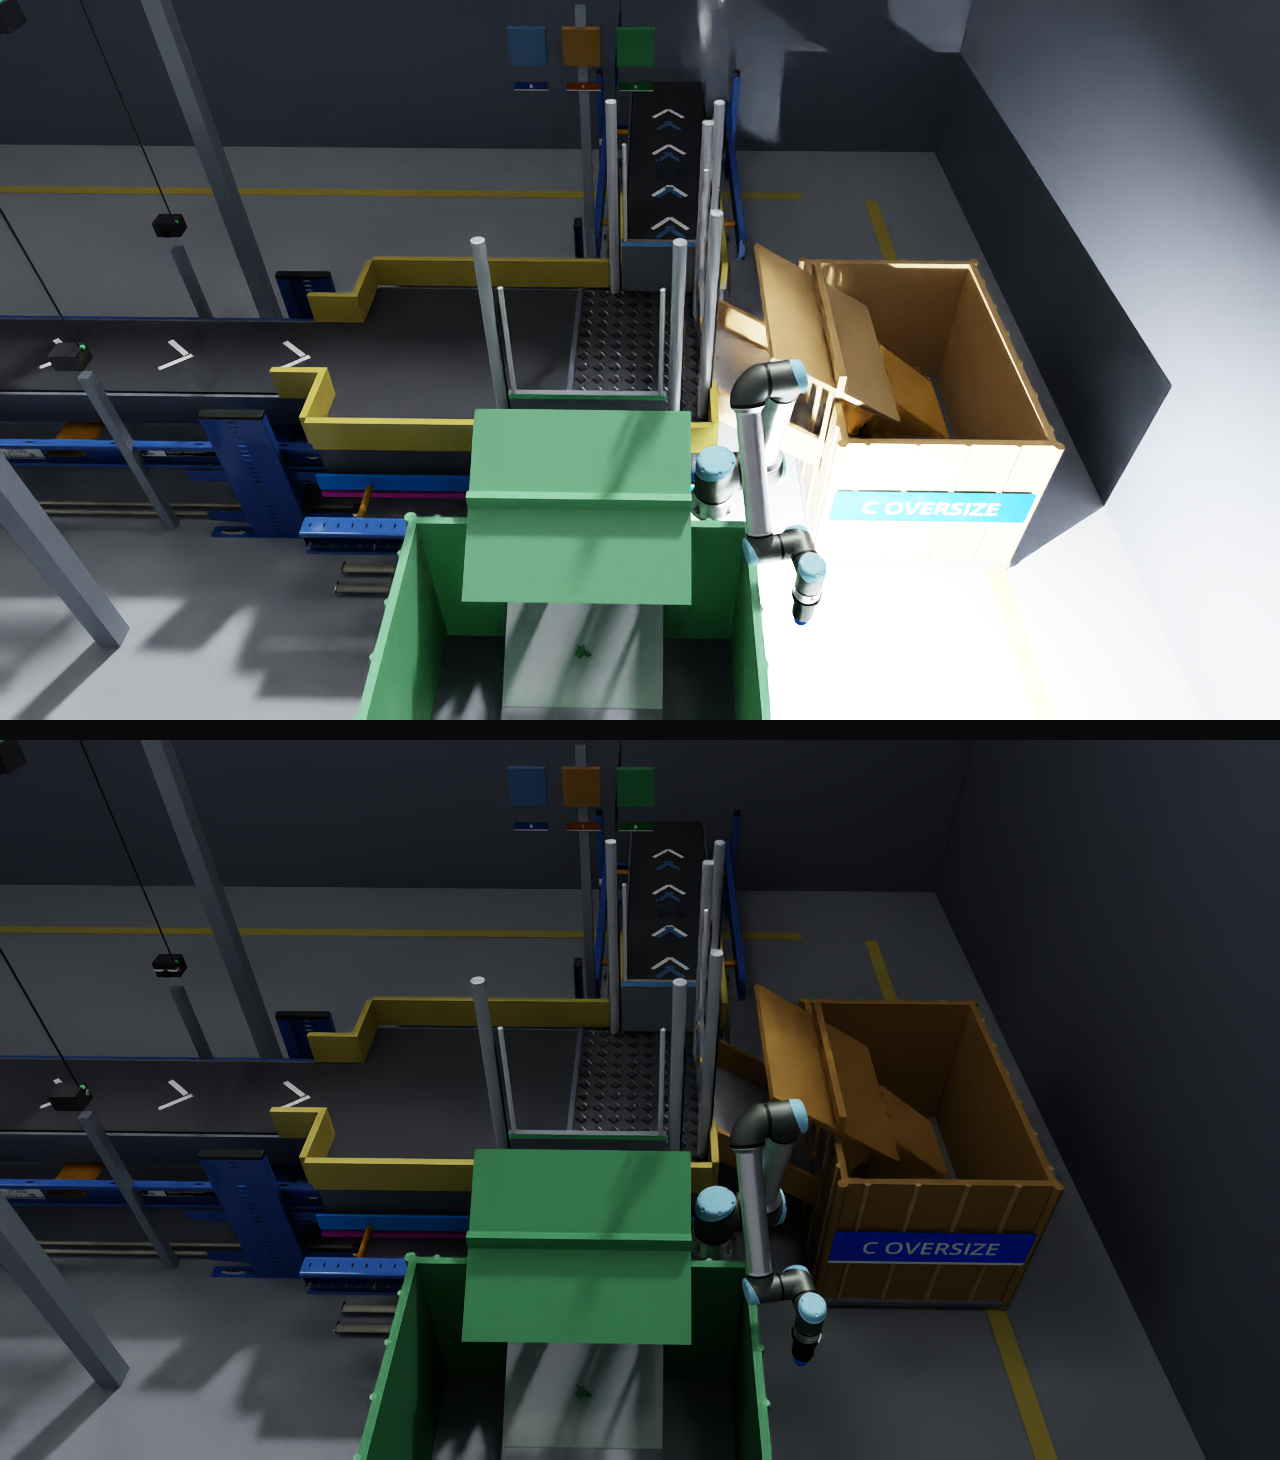
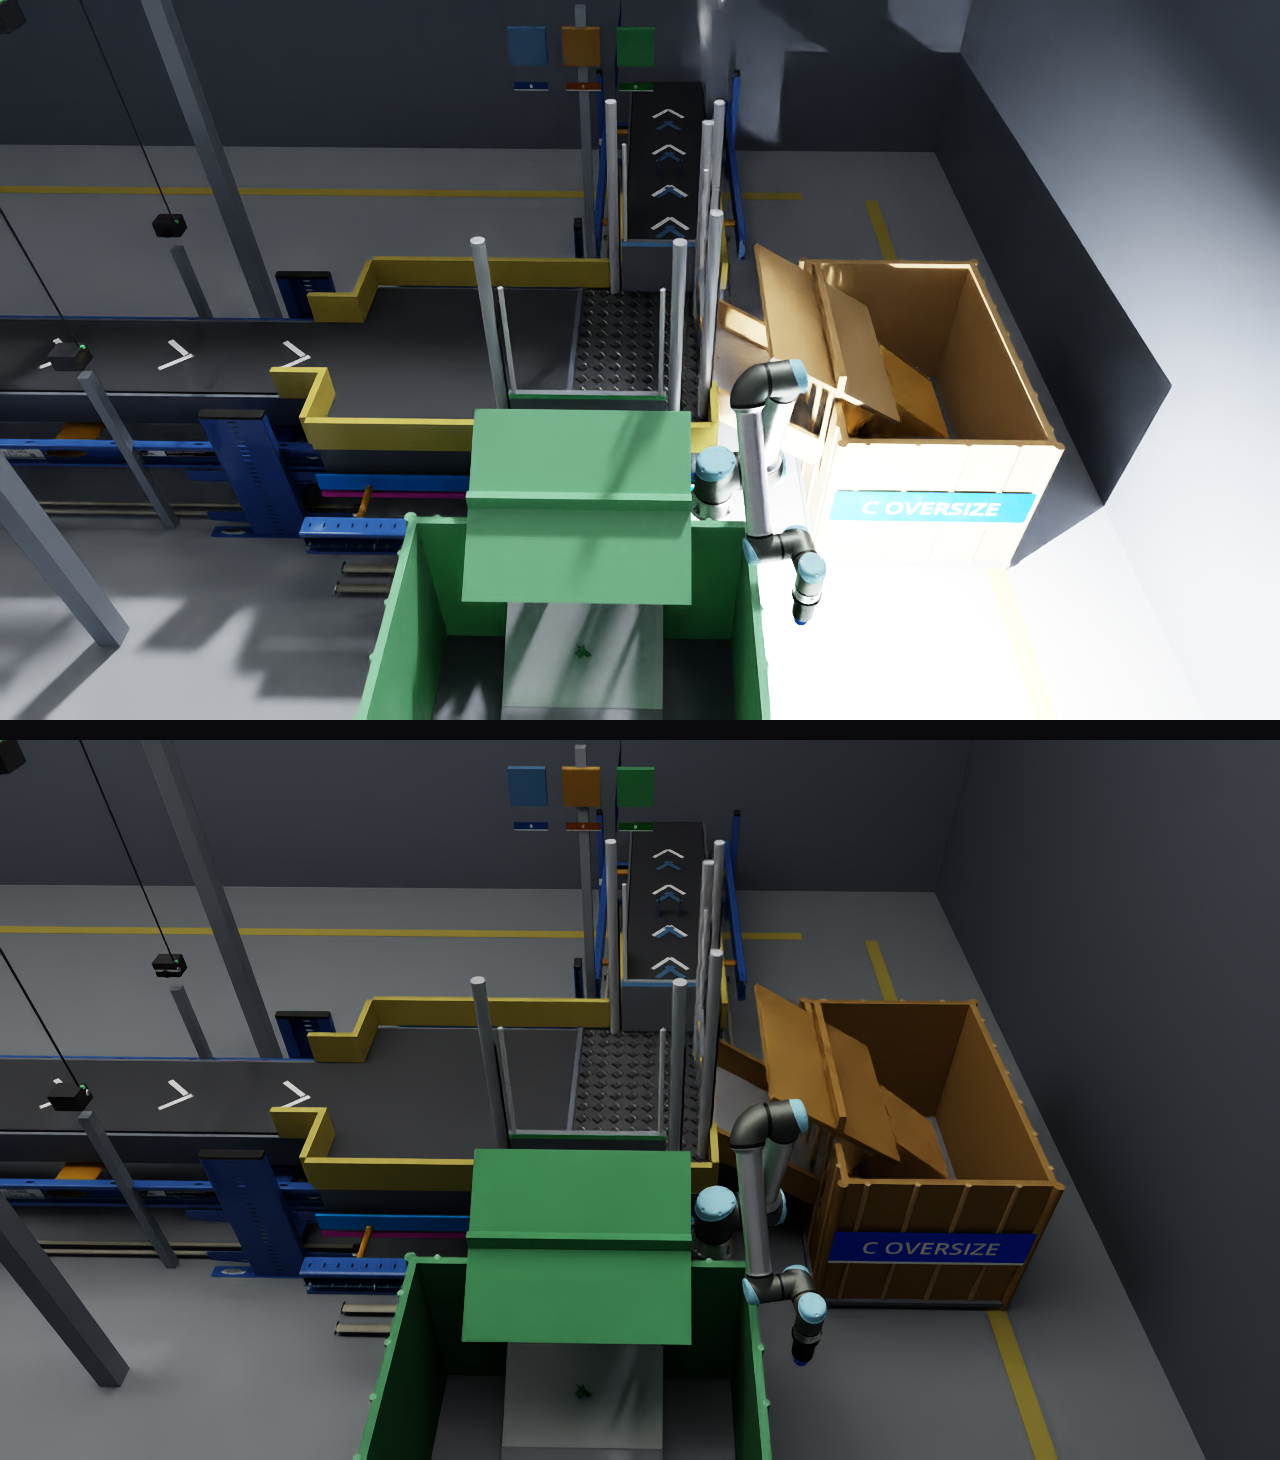
Ceiling-truss overhead area lighting: even industrial illumination, no arm hot spot
Replace the local point/sphere high-bays with a realistic roof structure:
a visible steel ceiling truss (top/bottom chords + zig-zag web, two bays)
spanning the whole cell, a roof deck, and four downward-facing RectLight
AREA high-bays that illuminate the entire floor evenly. No local light
near the robot arm; no hot specular spots; the arm is a mid-tone object,
not the visual focus.

Two fixture bugs caught via probe renders + pixel forensics: a USD
RectLight emits from its -Z face, so placing it unrotated at the ceiling
already points it down — the earlier RotateX(180) had flipped every light
up at the roof (whole cell went black); and the visible reflector panel
sat below the emitter and blocked the beam, now moved above it. Exposure
stays pinned (histogram auto-exposure disabled) so the balanced look holds
across hundreds of mixed-camera video frames.

Verified on the real render path: 3/3 routed, classification 1.0, 0 direct
velocity writes, physics bit-identical; C bin now reads brown with full
panel/wall detail and no white clipping (cage interior 70, floor 65 vs the
pre-fix 228,248,244 clip). Updated before/after evidence + isaac/README
lighting note. 53 tests pass. Video set re-rendering on the new lighting.

diff --git a/isaac/dressing.py b/isaac/dressing.py
@@ -323,40 +323,85 @@ class Dressing:
             self.box((ox + 0.055, hy, hz), (0.006, 0.006, 0.006),
                      (0.15, 0.75, 0.25), tag="camled")
 
+    def _truss(self, x0, x1, y, z_bot=5.15, z_top=5.55):
+        """A visible steel roof-truss girder running along x at height z:
+        top + bottom chords with a zig-zag web (the ceiling structure the
+        area lights hang from). Non-colliding, sensor-invisible dressing."""
+        col = (0.34, 0.36, 0.40)
+        hx = (x1 - x0) / 2
+        cx = (x0 + x1) / 2
+        for zc in (z_bot, z_top):                       # chords
+            self.box((cx, y, zc), (hx, 0.03, 0.025), col, tag="truss_chord")
+        n = max(2, int((x1 - x0) / 0.7))
+        for i in range(n):                              # zig-zag web
+            xa = x0 + (i + 0.5) * (x1 - x0) / n
+            self.cyl((xa, y, (z_bot + z_top) / 2), 0.012,
+                     (z_top - z_bot) / 2 + 0.02, col, axis="Z",
+                     tag="truss_web")
+        for xa in (x0 + 0.05, x1 - 0.05):               # end posts to roof
+            self.box((xa, y, z_top + 0.25), (0.03, 0.03, 0.25), col,
+                     tag="truss_post")
+
+    def _highbay(self, cx, cy, w, d, intensity):
+        """Overhead LED high-bay AREA light on the truss: a downward RectLight
+        (even, soft, shadow-friendly illumination over the whole cell — no
+        local hot spots) inside a visible fixture housing + reflector.
+
+        A USD RectLight emits from its -Z face; with the prim unrotated at
+        the ceiling that is straight down, so NO rotation is applied (an
+        earlier RotateX(180) flipped it to light the roof — the whole cell
+        went black). The visible housing/reflector geometry sits ABOVE the
+        emitter plane so it never occludes the downward light."""
+        st = self.stage
+        z = 5.05
+        self._i += 1
+        lp = f"/World/lights/highbay_{self._i}"
+        rect = UsdLux.RectLight.Define(st, lp)
+        rect.CreateWidthAttr(float(w))
+        rect.CreateHeightAttr(float(d))
+        rect.CreateIntensityAttr(float(intensity))
+        rect.GetPrim().CreateAttribute("inputs:normalize",
+                                       Sdf.ValueTypeNames.Bool).Set(True)
+        rect.GetPrim().CreateAttribute("inputs:color",
+                                       Sdf.ValueTypeNames.Color3f).Set(
+            Gf.Vec3f(1.0, 0.96, 0.89))
+        UsdGeom.Xformable(rect.GetPrim()).AddTranslateOp().Set(
+            Gf.Vec3d(cx, cy, z))                        # unrotated -> emits -Z
+        # visible fixture ABOVE the emitter: dark housing + bright diffuser
+        # face (reads as a lit LED panel from below without blocking light)
+        self.box((cx, cy, z + 0.12), (w / 2 + 0.03, d / 2 + 0.03, 0.05),
+                 (0.12, 0.13, 0.15), tag="hb_housing")
+        self.box((cx, cy, z + 0.055), (w / 2, d / 2, 0.004),
+                 (0.95, 0.95, 0.92), tag="hb_face")
+
     def lighting_env(self):
         st = self.stage
-        # dim the white dome, warm the sun, lift shadows softly
+        # soft neutral ambient FILL only (the area lights are the key light)
         dome = UsdLux.DomeLight(st.GetPrimAtPath("/World/lights/dome"))
         if dome:
-            dome.GetIntensityAttr().Set(260.0)
+            dome.GetIntensityAttr().Set(150.0)
             dome.GetPrim().CreateAttribute(
                 "inputs:color", Sdf.ValueTypeNames.Color3f).Set(
                 Gf.Vec3f(0.55, 0.58, 0.64))
+        # kill the hard directional sun: overhead area lights carry the scene
         sun = UsdLux.DistantLight(st.GetPrimAtPath("/World/lights/sun"))
         if sun:
-            sun.GetIntensityAttr().Set(400.0)
+            sun.GetIntensityAttr().Set(120.0)
             sun.GetPrim().CreateAttribute(
-                "inputs:angle", Sdf.ValueTypeNames.Float).Set(4.0)
-        # high-bay fixtures: sphere lights with radius -> soft shadows.
-        # AUDIT FIX (§5): bay_2/bay_3 both sat over the C-bin/arm corner at
-        # 28k and overexposed it (the arm read as the visual focus, hot
-        # specular spots on the belt). Even spacing, lower intensity, higher
-        # dome fill — the deck/gates/freight carry the exposure, not the arm.
-        for i, (lx, ly) in enumerate([(2.5, 3.0), (5.5, 3.0), (7.6, 3.8),
-                                      (9.4, 1.6)]):
-            lp = f"/World/lights/bay_{i}"
-            lgt = UsdLux.SphereLight.Define(st, lp)
-            lgt.CreateRadiusAttr(0.30)
-            lgt.CreateIntensityAttr(13000.0)
-            lgt.GetPrim().CreateAttribute(
-                "inputs:color", Sdf.ValueTypeNames.Color3f).Set(
-                Gf.Vec3f(1.0, 0.97, 0.90))
-            UsdGeom.Xformable(lgt.GetPrim()).AddTranslateOp().Set(
-                Gf.Vec3d(lx, ly, 4.6))
-            self.cyl((lx, ly, 4.85), 0.16, 0.05, (0.15, 0.16, 0.18),
-                     tag="fixture")
-            self.box((lx, ly, 5.15), (0.012, 0.012, 0.25), FRAME,
-                     tag="fixture_rod")
+                "inputs:angle", Sdf.ValueTypeNames.Float).Set(3.0)
+        # ceiling truss girders spanning the whole cell (two bays along y)
+        for ty in (2.0, 4.0):
+            self._truss(0.4, 9.7, ty)
+        # roof deck panel above the truss (so lights read as ceiling-mounted,
+        # not floating) — dark, high, out of every camera's action framing
+        self.box((5.0, 3.0, 5.75), (5.0, 3.1, 0.04), (0.12, 0.13, 0.15),
+                 tag="roofdeck")
+        # AREA-light grid on the truss: even overhead coverage of the whole
+        # 10x6 cell — no local spotlight near the arm, no blown-out corner.
+        # RectLights emit downward; normalize keeps brightness size-stable.
+        for (lx, ly, w, d) in ((1.6, 3.0, 2.4, 3.0), (4.2, 3.0, 2.6, 3.0),
+                               (6.6, 3.0, 2.4, 3.2), (8.7, 2.6, 2.6, 3.4)):
+            self._highbay(lx, ly, w, d, 18000.0)
         # backdrop walls: kill the white void on the camera-facing sides
         self.box((5.0, 6.35, 2.6), (7.5, 0.06, 2.6), (0.16, 0.18, 0.22),
                  tag="wall_n")

diff --git a/isaac/README.md b/isaac/README.md
@@ -233,11 +233,19 @@ ships a lateral ARB mechanism (full A01–A49 sweep documented); (4) the
 forensics to **light prims shipped inside the referenced UR10e / gripper /
 RealSense assets** — `sanitize()` now disables lights in every referenced
 shell; the powered discharge belts were also recolored from pale steel to
-dark rubber, the classification tint desaturated, high-bays rebalanced
-(even spacing, 13 k, quieter sun), and all statics carry matte industrial
-PBR materials with per-prim value variation instead of glossy
-displayColor plastic. Before/after evidence:
-[docs/report/isaac_evidence/final_arb/](../docs/report/isaac_evidence/final_arb/).
+dark rubber, the classification tint desaturated, and all statics carry
+matte industrial PBR materials with per-prim value variation instead of
+glossy displayColor plastic; (5) lighting was rebuilt as a **ceiling truss
+carrying downward-facing RectLight area high-bays** (`Dressing._truss` +
+`_highbay`): visible steel roof girders + roof deck over the whole cell,
+four soft area lights illuminating the floor evenly — no local point light
+near the arm, no hot specular spots. Two fixture bugs were caught (a
+RectLight emits from its −Z face, so an earlier RotateX(180) lit the roof
+not the floor; the visible reflector panel was moved above the emitter so
+it stops occluding the beam), and exposure is pinned
+(`/rtx/post/histogram/enabled=False`) so hundreds of mixed-camera renders
+don't auto-brighten into a clipped bin. Before/after evidence:
+[docs/report/isaac_evidence/final_arb/before_after_cbin_lighting.png](../docs/report/isaac_evidence/final_arb/before_after_cbin_lighting.png).
 
 **PhysX gotcha worth knowing (found by probing, fixed 2026-07-08):**
 `PhysxSurfaceVelocityAPI.surfaceVelocity` is applied in the prim's *local
